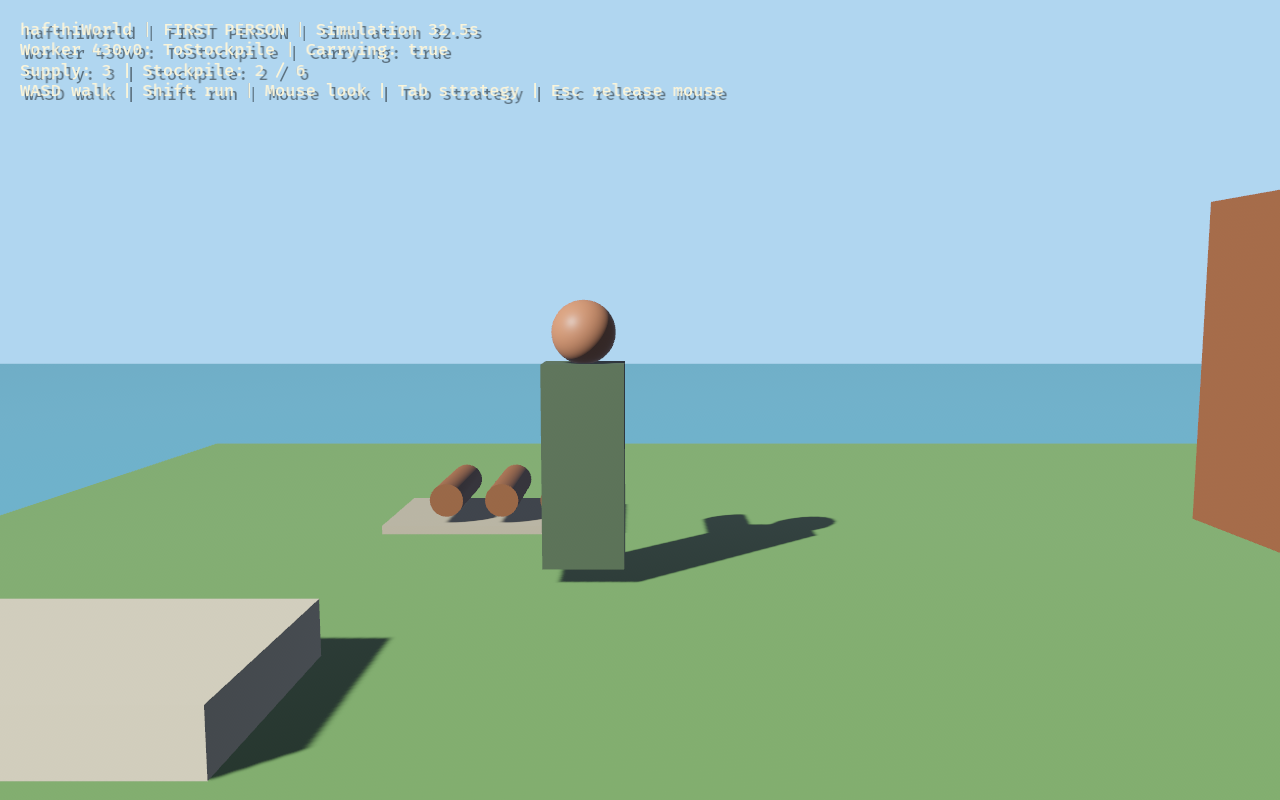
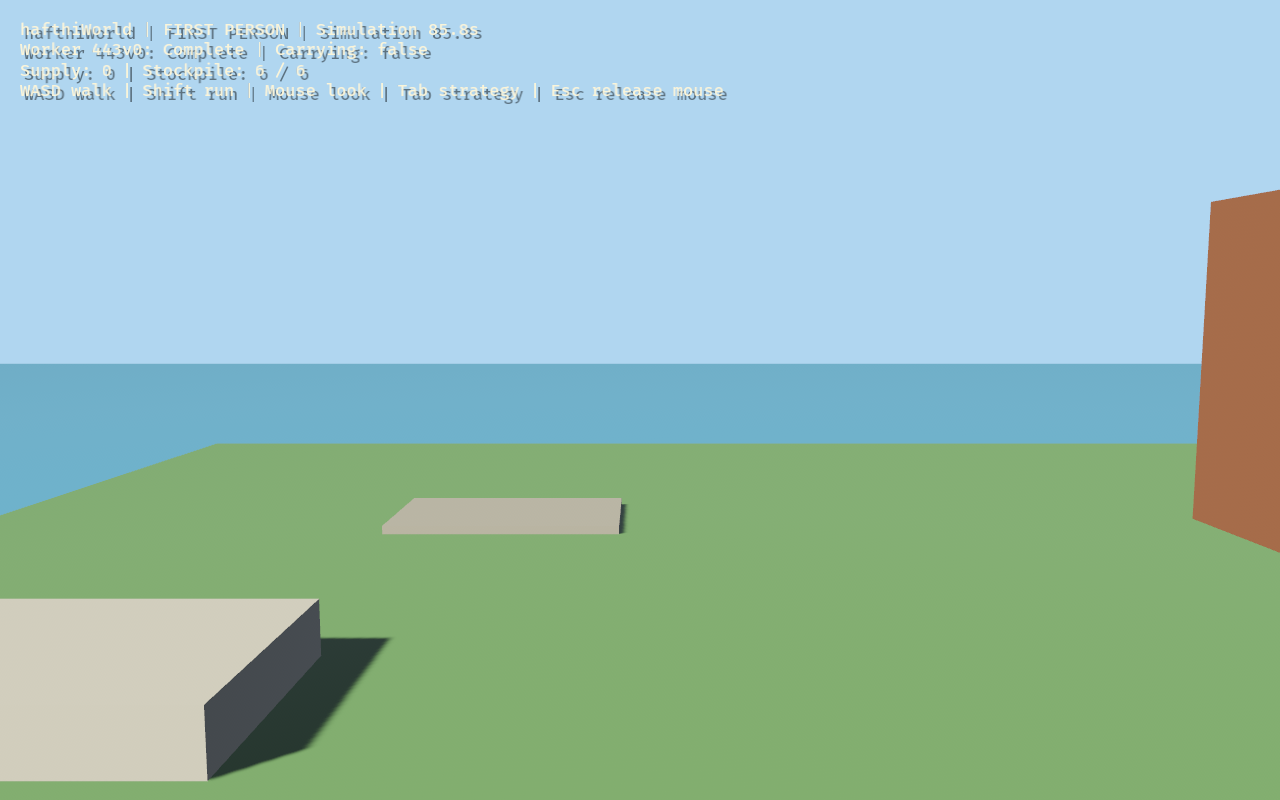
Document PR handoff and final shared-world smoke captures

Changed region(s): [[0.3125, 0.375, 0.6562, 0.75], [0.125, 0.0312, 0.375, 0.0938], [0.0625, 0.0625, 0.0938, 0.0938]]

diff --git a/docs/pull-request.md b/docs/pull-request.md
@@ -1,0 +1,9 @@
+Tab now switches between the strategy camera and a ground-level first-person view of the same running world. Returning restores the exact strategy pose; first-person position/look are retained. Mouse capture releases on Escape or focus loss, and quitting uses Bevy's normal exit flow. Walking includes meadow bounds and house/limestone collision.
+
+A fixed-step ECS worker transports six finite logs from supply to stockpile. Picking up removes one from supply, carrying moves that same log entity, and unloading adds it to storage. Camera code never mutates the simulation. Both views display the same worker ID, advancing clock, task and material counts. The existing coastal scene is preserved and split into world, simulation, camera and presentation modules; Bevy 0.20 light API mismatches in the initial prototype are corrected.
+
+This implements **PR 1** of #1. Harvesting, player orders, construction, larger populations and economy systems remain later milestones; this PR does not close the roadmap issue. Earlier local art/model experiments are intentionally outside this focused branch based on current main.
+
+Validation: `cargo fmt --check`, `cargo check --locked`, `cargo test --locked` (**6 passed**), `cargo clippy --locked -- -D warnings`, and `cargo build --locked` passed with Rust 1.99.1 / Bevy 0.20. Linux software-Vulkan smoke-tested both modes and continuous worker identity/material flow. macOS/Metal was not tested here. Controls, architecture and reproducible desktop smoke steps are documented in README.
+
+Screenshots: [strategy](https://github.com/pdahlbeck/hafthiWorld/blob/codex/shared-simulation-camera/docs/screenshots/milestone1-strategy.png), [first person](https://github.com/pdahlbeck/hafthiWorld/blob/codex/shared-simulation-camera/docs/screenshots/milestone1-first-person.png).
